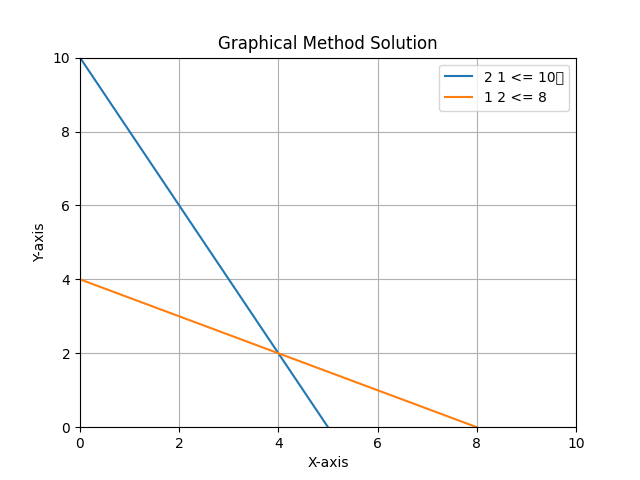
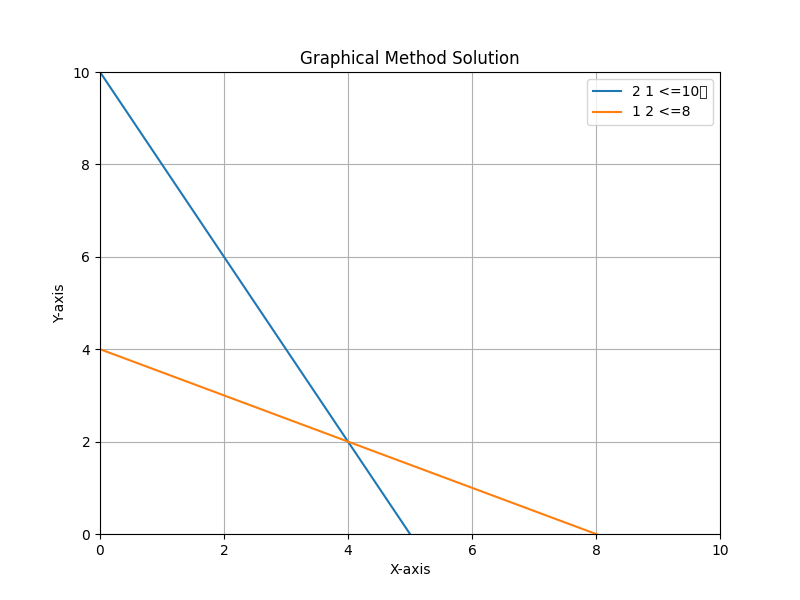
Fifth  Commit

diff --git a/mysite/optimization/templates/optimization/result.html b/mysite/optimization/templates/optimization/result.html
@@ -14,56 +14,78 @@
         }
         body {
             font-family: 'Raleway', sans-serif;
-            background: url('/static/background.png') no-repeat center center fixed;
+            background: url('/static/background.jpg') no-repeat center center fixed;
             background-size: cover;
-            background-color: #0D0D0D;
+            background-color: rgba(0, 0, 0, 0.8);
             color: #E0E0E0;
             text-align: center;
             padding: 50px;
         }
         .container {
-            width: 60%;
+            width: 70%;
             margin: 50px auto;
-            background: rgba(0, 0, 0, 0.6);
+            background: rgba(0, 0, 0, 0.75);
             backdrop-filter: blur(20px);
             padding: 40px;
-            border-radius: 10px;
+            border-radius: 15px;
             text-align: center;
-            box-shadow: 0 6px 18px rgba(0, 0, 0, 0.6);
+            box-shadow: 0 8px 20px rgba(0, 0, 0, 0.7);
         }
         h1 {
-            font-size: 42px;
+            font-size: 48px;
             font-weight: 700;
             color: #BB86FC;
-            text-shadow: 3px 3px 12px rgba(187, 134, 252, 0.5);
+            text-shadow: 3px 3px 15px rgba(187, 134, 252, 0.6);
+            margin-bottom: 20px;
         }
         .solution-box {
-            font-size: 20px;
+            font-size: 22px;
             line-height: 1.8;
             color: #D0D0D0;
-            padding: 20px;
+            padding: 25px;
             background: rgba(255, 255, 255, 0.1);
-            border-radius: 8px;
-            box-shadow: 0 4px 10px rgba(0, 0, 0, 0.5);
+            border-radius: 12px;
+            box-shadow: 0 5px 12px rgba(0, 0, 0, 0.5);
             word-wrap: break-word;
             text-align: left;
         }
+        .solution-box h2 {
+            font-size: 26px;
+            color: #BB86FC;
+            margin-bottom: 10px;
+            text-shadow: 2px 2px 10px rgba(187, 134, 252, 0.5);
+        }
+        .solution-box pre {
+            font-size: 20px;
+            font-family: monospace;
+            white-space: pre-wrap;
+            word-wrap: break-word;
+        }
+        .graph-container {
+            margin-top: 20px;
+        }
+        .graph-container img {
+            width: 100%;
+            max-width: 600px;
+            border-radius: 10px;
+            box-shadow: 0 6px 15px rgba(0, 0, 0, 0.6);
+        }
         .back-btn {
             display: inline-block;
-            margin-top: 20px;
-            padding: 12px 20px;
-            font-size: 18px;
+            margin-top: 30px;
+            padding: 14px 24px;
+            font-size: 20px;
             font-weight: 600;
             color: #E0E0E0;
             background: #BB86FC;
             border: none;
-            border-radius: 8px;
+            border-radius: 10px;
             text-decoration: none;
             transition: 0.3s;
         }
         .back-btn:hover {
             background: #9b67f5;
-            transform: scale(1.05);
+            transform: scale(1.08);
         }
     </style>
 </head>
@@ -71,12 +93,11 @@
     <div class="container">
         <h1>Solution</h1>
         <div class="solution-box">
-            <h2>Solution Output:</h2>
+            <h2>Optimal Result</h2>
             <pre>{{ solution|safe }}</pre>
-        </div>        
+        </div>
+        
         <a href="/" class="back-btn">Back to Home</a>
     </div>
 </body>
 </html>
-
-

diff --git a/mysite/optimization/views.py b/mysite/optimization/views.py
@@ -49,22 +49,28 @@ def solve_simplex(obj_func, constraints):
         A_ub = np.array(lhs_ineq)
         b_ub = np.array(rhs_ineq)
         res = linprog(-c, A_ub=A_ub, b_ub=b_ub, method='simplex')
-        return f'Optimal Solution: {res.x}, Objective Value: {-res.fun}'
+
+        return f'<p><strong>Optimal Solution:</strong> {res.x}</p><p><strong>Objective Value:</strong> {-res.fun}</p>'
     except Exception as e:
         return f'Error: {e}'
 
+
 def solve_graphical(obj_func, constraints):
     try:
-        plt.figure()
+        plt.figure(figsize=(8, 6))
+        x_vals = np.linspace(0, 10, 400)
+        feasible_region = []
+
         for constraint in constraints.strip().split("\n"):
             parts = constraint.strip().split("<=")
             if len(parts) != 2:
                 return "Error: Invalid constraint format."
             coef = [float(x) for x in parts[0].strip().split()]
             b = float(parts[1].strip())
-            x_vals = np.linspace(0, 10, 100)
             y_vals = (b - coef[0] * x_vals) / coef[1]
             plt.plot(x_vals, y_vals, label=constraint)
+            feasible_region.append((coef, b))
+        
         plt.xlim(0, 10)
         plt.ylim(0, 10)
         plt.xlabel("X-axis")
@@ -72,15 +78,46 @@ def solve_graphical(obj_func, constraints):
         plt.legend()
         plt.title("Graphical Method Solution")
         plt.grid()
+        
         static_dir = os.path.join(os.getcwd(), "static")
         if not os.path.exists(static_dir):
             os.makedirs(static_dir)
         graph_path = os.path.join(static_dir, "graph.png")
         plt.savefig(graph_path)
         plt.close()
-        return '<img src="/static/graph.png" alt="Graphical Solution">'
+
+        # Calculate intersection points of constraints
+        intersection_points = []
+        for i in range(len(feasible_region)):
+            for j in range(i + 1, len(feasible_region)):
+                A = np.array([feasible_region[i][0], feasible_region[j][0]])
+                b = np.array([feasible_region[i][1], feasible_region[j][1]])
+                try:
+                    solution = np.linalg.solve(A, b)
+                    if all(solution >= 0):
+                        intersection_points.append(solution)
+                except np.linalg.LinAlgError:
+                    continue
+        
+        intersection_points = np.array(intersection_points)
+        if intersection_points.size == 0:
+            return '<p>No feasible solution found.</p><img src="/static/graph.png" alt="Graphical Solution">'
+        
+        # Evaluate the objective function at each intersection point
+        obj_coef = np.array([float(x) for x in obj_func.strip().split()])
+        obj_values = np.dot(intersection_points, obj_coef)
+        max_index = np.argmax(obj_values)
+        optimal_solution = intersection_points[max_index]
+        optimal_value = obj_values[max_index]
+
+        result_html = f'<p><strong>Optimal Solution:</strong> X = {optimal_solution[0]:.2f}, Y = {optimal_solution[1]:.2f}</p>'
+        result_html += f'<p><strong>Objective Value:</strong> {optimal_value:.2f}</p>'
+        result_html += '<img src="/static/graph.png" alt="Graphical Solution">'
+        
+        return result_html
     except Exception as e:
         return f"Error: {e}"
+
 
 def solve_modi(obj_func, constraints):
     try:
